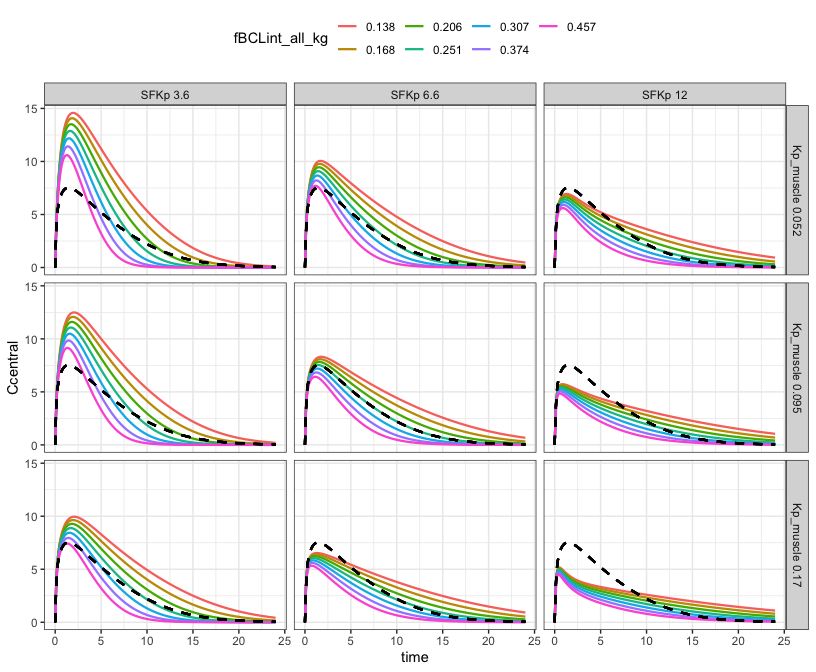
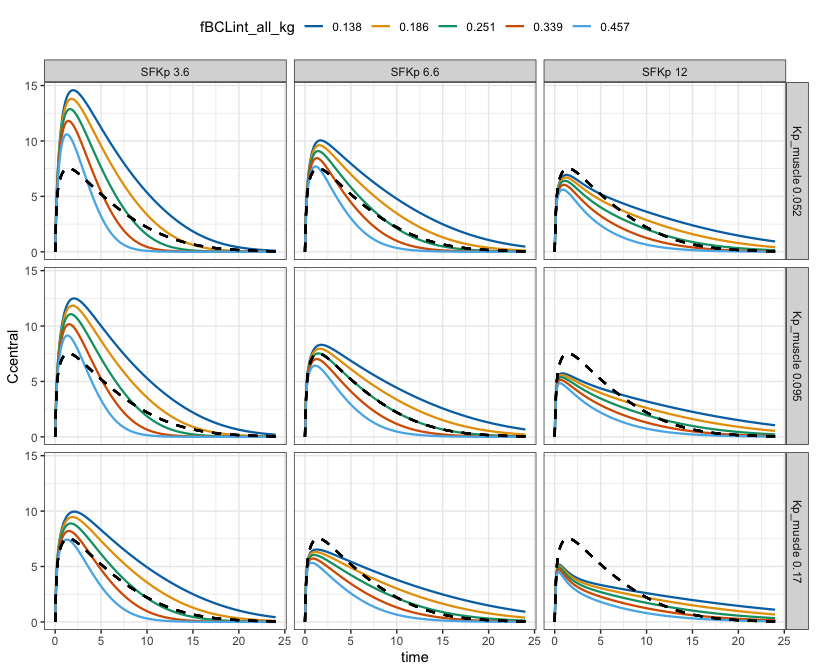
readme; lsa plot

diff --git a/README.md b/README.md
@@ -10,13 +10,11 @@ A simple, clean workflow for sensitivity analysis with mrgsolve.
 library(mrgsim.sa)
 ```
 
-``` r
-mod <- mread("pk1", modlib(), end = 48, delta = 0.1)
-```
-
-    . Building pk1 ... done.
+Models in mrgsolve have “parameters” associated with them.
 
 ``` r
+mod <- modlib("pk1", end = 48, delta = 0.1)
+
 param(mod)
 ```
 
@@ -26,18 +24,25 @@ param(mod)
     .  CL   1     | V    20   
     .  KA   1     | .    .
 
+Parameters are name-value pairs that are usually involved in controlling
+how the system advances in time. Parameters could be clearances (`CL`),
+rate constants (`k`), pharmacodynamic parameters (`EC50`) or even
+covariates (`WT` … weight). mrgsim.sa does one-at-a-time sensitivity
+analysis on parameters in your model.
+
 ## PK model sensitivity analysis by factor
 
 The nominal (in model) parameter value is divided and multiplied by a
 factor, generating minimum and maximum bounds for simulating a sequence
-of parameter values
+of parameter values. In this example, we vary `CL` and `V`, each one at
+a time.
 
 ``` r
 out <- 
   mod %>% 
   ev(amt = 100) %>% 
   select_par(CL, V) %>% 
-  parseq_fct(.n=8) %>% 
+  parseq_fct(.n = 5) %>% 
   sens_each() 
 
 sens_plot(out, "CP")
@@ -45,13 +50,19 @@ sens_plot(out, "CP")
 
 ![](man/figures/README-unnamed-chunk-4-1.png)<!-- -->
 
+In this sensitivity analysis, `CL` is varied at the value of `V` in the
+model parameter list and `V` is varied at the value of `CL` in the model
+parameter list. The black dashed line indicates the model prediction
+based on `CL` and `V` both as they are in the parameter list; this is
+the “reference”.
+
 The simulated data is returned in a long format
 
 ``` r
 out
 ```
 
-    . # A tibble: 23,232 × 7
+    . # A tibble: 14,520 × 7
     .    case  time p_name p_value dv_name dv_value ref_value
     . * <int> <dbl> <chr>    <dbl> <chr>      <dbl>     <dbl>
     . 1     1     0 CL         0.5 EV             0         0
@@ -59,9 +70,12 @@ out
     . 3     1     0 CL         0.5 CENT           0         0
     . 4     1     0 CL         0.5 CENT           0         0
     . 5     1     0 CL         0.5 CP             0         0
-    . # ℹ 23,227 more rows
+    . # ℹ 14,515 more rows
 
-And you can plot with more informative color scale and legend
+The previous plot focused on relative changes in the PK profile for
+“lower” and “higher” values of `CL` and `V` according to the `parseq_`
+method. You can plot with a more quantitative color scale and legend
+using `grid = TRUE`.
 
 ``` r
 sens_plot(out, "CP", grid = TRUE)
@@ -71,17 +85,13 @@ sens_plot(out, "CP", grid = TRUE)
 
 ## HIV viral dynamic model
 
-We look at latent infected cell pool development over ten years at
-different “burst” size, or the number of HIV particles released when one
-cell lyses.
+In another exampple, we look at latent infected cell pool development
+over ten years at different “burst” size, or the number of HIV particles
+released when one cell lyses.
 
 ``` r
 mod <- mread("hiv", "inst/example")
-```
 
-    . Building hiv ... done.
-
-``` r
 mod %>% 
   update(end = 365*10) %>%
   parseq_range(N = c(900,1500), .n = 10) %>%
@@ -96,46 +106,47 @@ mod %>%
 The model is rifampicin PBPK.
 
 ``` r
-mod <- mread("inst/example/rifampicin.cpp") %>% update(delta = 0.1)
+mod <- mread("inst/example/rifampicin.cpp", delta = 0.1)
 ```
 
     . Building rifampicin_cpp ... done.
 
 ``` r
-mod %>% 
+sims <- 
+  mod %>% 
   ev(amt = 600) %>% 
   parseq_manual(
     SFKp = seq_fct(.$SFKp, n = 20), 
     Kp_muscle = seq_even(0.001, 0.1, n = 6)
-  ) %>% 
-  sens_each() %>% 
-  sens_plot("Ccentral")
+  ) %>% sens_each() 
+
+sens_plot(sims, "Ccentral")
 ```
 
 ![](man/figures/README-unnamed-chunk-8-1.png)<!-- -->
 
 # Simulate a grid
 
-To this point, we have always used `sens_each` so that each value for
+To this point, we have always used `sens_each()` so that each value for
 each parameter is simulated one at a time. Now, simulate the grid or all
-combinations.
+combinations of the sensitivity parameters.
 
-We use `parseq_cv` here, which generates lower and upper bounds for the
-range using 50% coefficient of variation.
+We use `parseq_cv()` here, which generates lower and upper bounds for
+the range using 50% coefficient of variation.
 
 ``` r
 out <- 
   mod %>% 
   update(outvars = "Ccentral") %>%
   ev(amt = 600) %>% 
-  parseq_cv(fBCLint_all_kg, .n = 7) %>% 
+  parseq_cv(fBCLint_all_kg, .n = 5) %>% 
   parseq_cv(SFKp, Kp_muscle, .n = 3) %>% 
   sens_grid(recsort = 3) 
 
 out
 ```
 
-    . # A tibble: 15,372 × 8
+    . # A tibble: 10,980 × 8
     .    case fBCLint_all_kg  SFKp Kp_muscle  time dv_name  dv_value ref_value
     . * <int>          <dbl> <dbl>     <dbl> <dbl> <chr>       <dbl>     <dbl>
     . 1     1          0.138  3.65    0.0520   0   Ccentral     0         0   
@@ -143,15 +154,22 @@ out
     . 3     1          0.138  3.65    0.0520   0   Ccentral     0         0   
     . 4     1          0.138  3.65    0.0520   0   Ccentral     0         0   
     . 5     1          0.138  3.65    0.0520   0.1 Ccentral     3.66      3.14
-    . # ℹ 15,367 more rows
+    . # ℹ 10,975 more rows
 
 ``` r
-out %>% sens_plot("Ccentral")
+sens_plot(out, "Ccentral")
 ```
 
 ![](man/figures/README-unnamed-chunk-9-1.png)<!-- -->
 
+The output is more complicated because all the selected parameters have
+varying “sensitivity” values.
+
 # Local sensitivity analysis
+
+In local sensitivity analysis, we vary each sensitivity parameter a very
+small amount around the parameter list (model) value and see how much
+the output changes.
 
 ``` r
 mod <- modlib("pk2", delta = 0.1, end = 72)
@@ -180,5 +198,13 @@ out
 ``` r
 lsa_plot(out, pal = NULL)
 ```
+
+    . Warning: `aes_string()` was deprecated in ggplot2 3.0.0.
+    . ℹ Please use tidy evaluation idioms with `aes()`.
+    . ℹ See also `vignette("ggplot2-in-packages")` for more information.
+    . ℹ The deprecated feature was likely used in the mrgsim.sa package.
+    .   Please report the issue at <https://github.com/kylebaron/mrgsim.sa/issues>.
+    . This warning is displayed once per session.
+    . Call `lifecycle::last_lifecycle_warnings()` to see where this warning was generated.
 
 ![](man/figures/README-unnamed-chunk-10-1.png)<!-- -->
